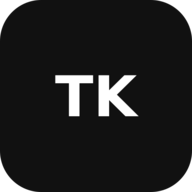
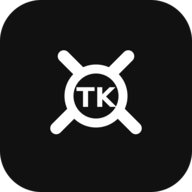
Perbarui ikon aplikasi ToolKu

Changed region(s): [[0.25, 0.25, 0.75, 0.7188]]

diff --git a/service-worker.js b/service-worker.js
@@ -1,4 +1,4 @@
-const CACHE_NAME = "toolku-v3";
+const CACHE_NAME = "toolku-v4";
 
 const FILES_TO_CACHE = [
     "./",
